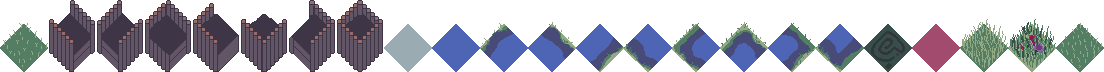
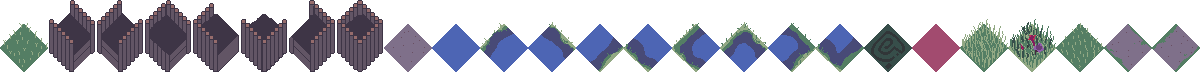
stable

diff --git a/bleed-client/lib/mappers/mapTileToRect.dart b/bleed-client/lib/mappers/mapTileToRect.dart
@@ -60,6 +60,10 @@ Rect mapTileToRect(Tile tile) {
       return _flowers;
     case Tile.Grass02:
       return _grass02;
+    case Tile.Concrete_Horizontal:
+      return _concreteHorizontal;
+    case Tile.Concrete_Vertical:
+      return _concreteVertical;
     case Tile.Boundary:
       throw Exception("Boundary has no rect");
   }
@@ -91,7 +95,8 @@ Rect _zombieSpawn = _frame(20);
 Rect _longGrass = _frame(21);
 Rect _flowers = _frame(22);
 Rect _grass02 = _frame(23);
-
+Rect _concreteHorizontal = _frame(24);
+Rect _concreteVertical = _frame(25);
 
 Rect _frame(int index) {
   return Rect.fromLTWH((index - 1) * tileCanvasWidth.toDouble(), 0.0, tileCanvasWidth.toDouble(), tileCanvasHeight.toDouble());

diff --git a/bleed-server/bin/enums.dart b/bleed-server/bin/enums.dart
@@ -6,6 +6,8 @@ List<Tile> _walkableTiles = [
   Tile.Long_Grass,
   Tile.ZombieSpawn,
   Tile.Concrete,
+  Tile.Concrete_Vertical,
+  Tile.Concrete_Horizontal,
   Tile.PlayerSpawn
 ];
 

diff --git a/bleed-client/lib/common/Tile.dart b/bleed-client/lib/common/Tile.dart
@@ -26,6 +26,8 @@ enum Tile {
   Long_Grass,
   Flowers,
   Grass02,
+  Concrete_Horizontal,
+  Concrete_Vertical,
 }
 
 final List<Tile> tiles = Tile.values;

diff --git a/bleed-common/lib/Tile.dart b/bleed-common/lib/Tile.dart
@@ -26,6 +26,8 @@ enum Tile {
   Long_Grass,
   Flowers,
   Grass02,
+  Concrete_Horizontal,
+  Concrete_Vertical,
 }
 
 final List<Tile> tiles = Tile.values;

diff --git a/bleed-server/bin/common/Tile.dart b/bleed-server/bin/common/Tile.dart
@@ -26,6 +26,8 @@ enum Tile {
   Long_Grass,
   Flowers,
   Grass02,
+  Concrete_Horizontal,
+  Concrete_Vertical,
 }
 
 final List<Tile> tiles = Tile.values;
